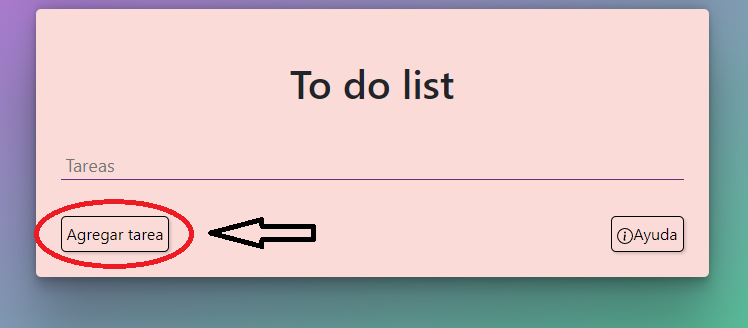
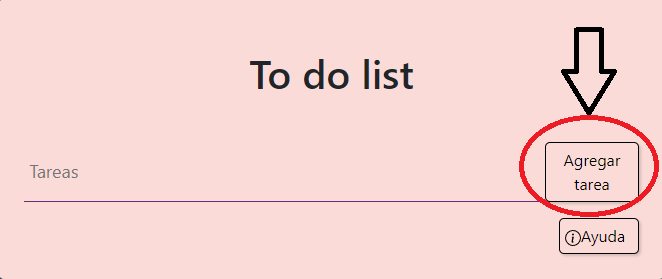
Cambios de img de carrusel

diff --git a/todolist.html b/todolist.html
@@ -20,20 +20,19 @@
                 <h1>To do list</h1>
             </div>
 
-            <div class="contenedor-lista">
-                <input type="text" class="input" id="input" placeholder="Tareas">
+            <div class="contenedorTareas">
+
+                <div class="tareasAgregarTareas">
+                    <input type="text" class="input" id="input" placeholder="Tareas">
+                    <button id="btnAgregar" class="boton" onclick="agregarTarea()">Agregar tarea</button>
+                </div>
                 <ul class="lista" id="listas_de_tareas">
                     <!-- <li class="tarea" id="tarea">
                 <input type="checkbox" name="checkbox" id="checkbox" class="checkbox">
                 <button id="btnEliminar" class="boton" onclick="eliminarTarea()">Eliminar</button>
                 </li> -->
                 </ul>
-
-                <div class="boton-ayuda">
-                    <div>
-                        <button id="btnAgregar" class="boton" onclick="agregarTarea()">Agregar tarea</button>
-                    </div>
-
+                <div class="contenedorAyuda">
                     <div class="ayuda">
                         <a href="#ayuda"><svg xmlns="http://www.w3.org/2000/svg" width="16" height="16"
                                 fill="currentColor" class="bi bi-info-circle" viewBox="0 0 16 16">
@@ -44,35 +43,34 @@
                     </div>
                 </div>
             </div>
-
         </div>
 
+    </div>
 
-        <section id="ayuda">
-            <div id="carouselExample" class="carousel slide">
-                <div class="carousel-inner">
-                    <div class="carousel-item active">
-                        <img src="./imagenes/ayuda1.png" class="d-block w-100" alt="...">
-                    </div>
-                    <div class="carousel-item">
-                        <img src="./imagenes/ayuda2.png" class="d-block w-100" alt="...">
-                    </div>
-                    <div class="carousel-item">
-                        <img src="./imagenes/ayuda3.png" class="d-block w-100" alt="...">
-                    </div>
+
+    <section id="ayuda">
+        <div id="carouselExample" class="carousel slide">
+            <div class="carousel-inner">
+                <div class="carousel-item active">
+                    <img src="./imagenes/ayuda1.png" class="d-block w-100" alt="...">
                 </div>
-                <button class="carousel-control-prev" type="button" data-bs-target="#carouselExample"
-                    data-bs-slide="prev">
-                    <span class="carousel-control-prev-icon" aria-hidden="true"></span>
-                    <span class="visually-hidden">Previous</span>
-                </button>
-                <button class="carousel-control-next" type="button" data-bs-target="#carouselExample"
-                    data-bs-slide="next">
-                    <span class="carousel-control-next-icon" aria-hidden="true"></span>
-                    <span class="visually-hidden">Next</span>
-                </button>
+                <div class="carousel-item">
+                    <img src="./imagenes/ayuda2.png" class="d-block w-100" alt="...">
+                </div>
+                <div class="carousel-item">
+                    <img src="./imagenes/ayuda3.png" class="d-block w-100" alt="...">
+                </div>
             </div>
-        </section>
+            <button class="carousel-control-prev" type="button" data-bs-target="#carouselExample" data-bs-slide="prev">
+                <span class="carousel-control-prev-icon" aria-hidden="true"></span>
+                <span class="visually-hidden">Previous</span>
+            </button>
+            <button class="carousel-control-next" type="button" data-bs-target="#carouselExample" data-bs-slide="next">
+                <span class="carousel-control-next-icon" aria-hidden="true"></span>
+                <span class="visually-hidden">Next</span>
+            </button>
+        </div>
+    </section>
     </div>
 
 

diff --git a/todolist.css b/todolist.css
@@ -16,7 +16,7 @@ body {
     border: 5px solid #FADBD8;
     border-radius: 5px;
     box-shadow: rgba(0, 0, 0, 0.25) 0px 54px 55px, rgba(0, 0, 0, 0.12) 0px -12px 30px, rgba(0, 0, 0, 0.12) 0px 4px 6px, rgba(0, 0, 0, 0.17) 0px 12px 13px, rgba(0, 0, 0, 0.09) 0px -3px 5px;
-
+    word-break: break-word;
 
 }
 
@@ -29,18 +29,16 @@ body {
 
 }
 
-.contenedor-lista {
+.contenedorTareas {
     background-color: #FADBD8;
     padding: 10px;
-
-
 
 }
 
-.lista {
-    background-color: #FADBD8;
-    padding: 10px;
-
+.tareasAgregarTareas {
+    display: flex;
+    justify-content: space-between;
+    word-break: break-word;
 
 }
 
@@ -48,11 +46,11 @@ body {
     background-color: #b96ad8;
 }
 
-.boton-ayuda {
+.contenedorAyuda {
     display: flex;
-    justify-content: space-between;
-    word-break: break-word;
-    flex-wrap: wrap;
+    justify-content: flex-end;
+
+
 }
 
 .ayuda {
@@ -61,6 +59,8 @@ body {
     border-radius: 5px;
     box-shadow: rgba(0, 0, 0, 0.15) 1.95px 1.95px 2.6px;
     padding: 5px;
+    width: 80px;
+
 }
 
 .ayuda a {
@@ -121,4 +121,8 @@ ul li {
 .carousel-inner {
     margin-top: 500px;
 
+}
+
+.carousel-control-prev-icon .carousel-control-next-icon {
+    filter: invert(108%);
 }
